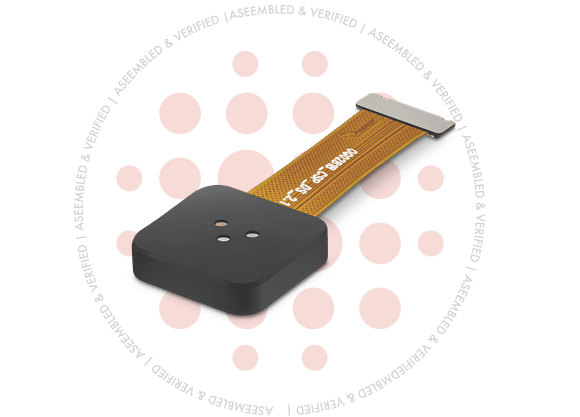
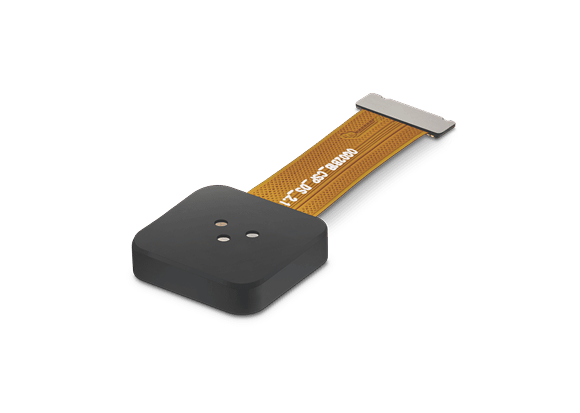
change image

diff --git a/src/layouts/equipment-assembly/index.js b/src/layouts/equipment-assembly/index.js
@@ -79,7 +79,7 @@ const EquipmentAssembly = () => {
                         together
                     </>
                 }
-                description="Assembly and test run in the same cell, so every module is checked as it is built. Fewer handoffs, and a verified module at the end of the line."
+                description="Our assembly machine offers an optional module-testing add-on, so every module is tested automatically right after it is assembled. Build and verification on one system."
                 imageSrc="/verticals/equipment/assembly/assemble.png"
                 imageAlt="Assemble and verify together"
                 imageWidth={580}